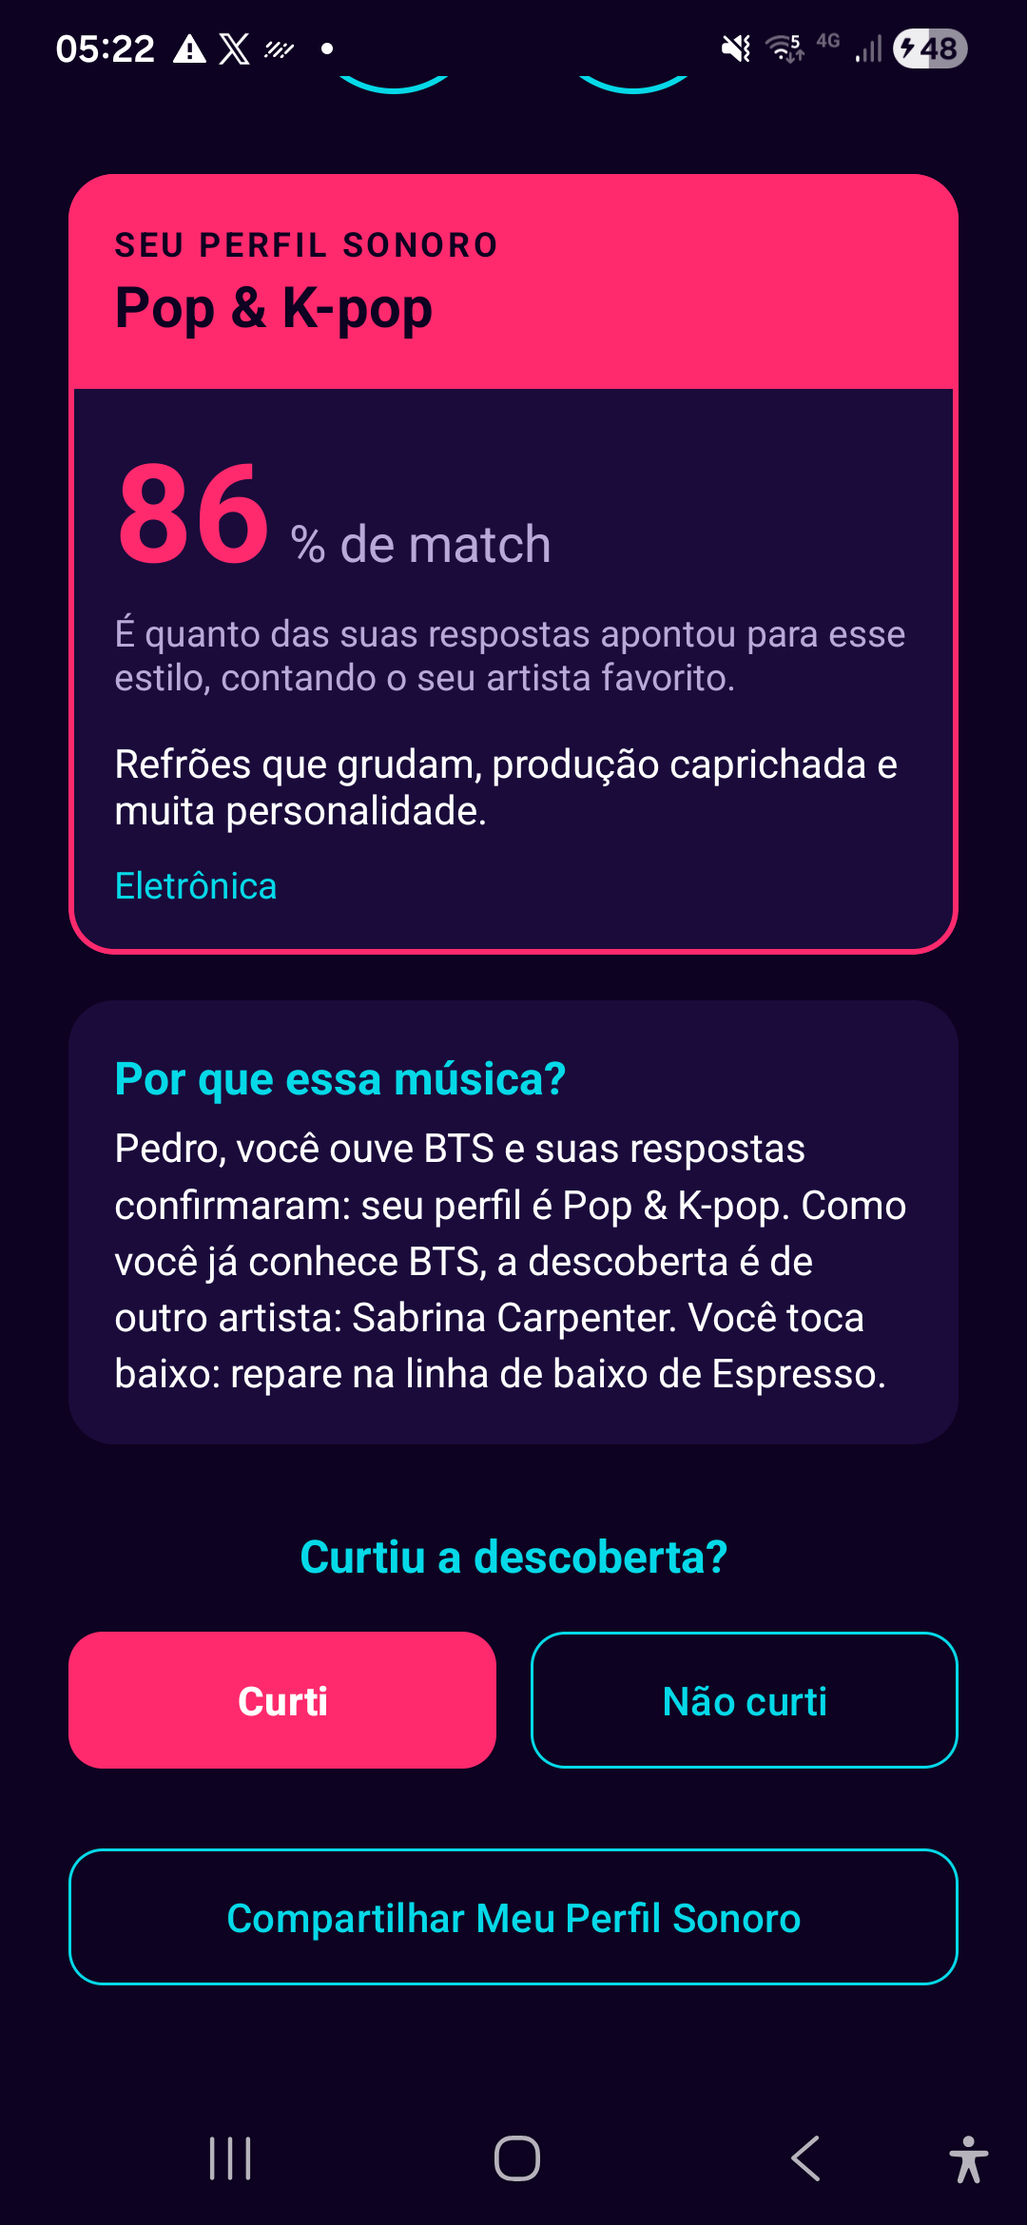
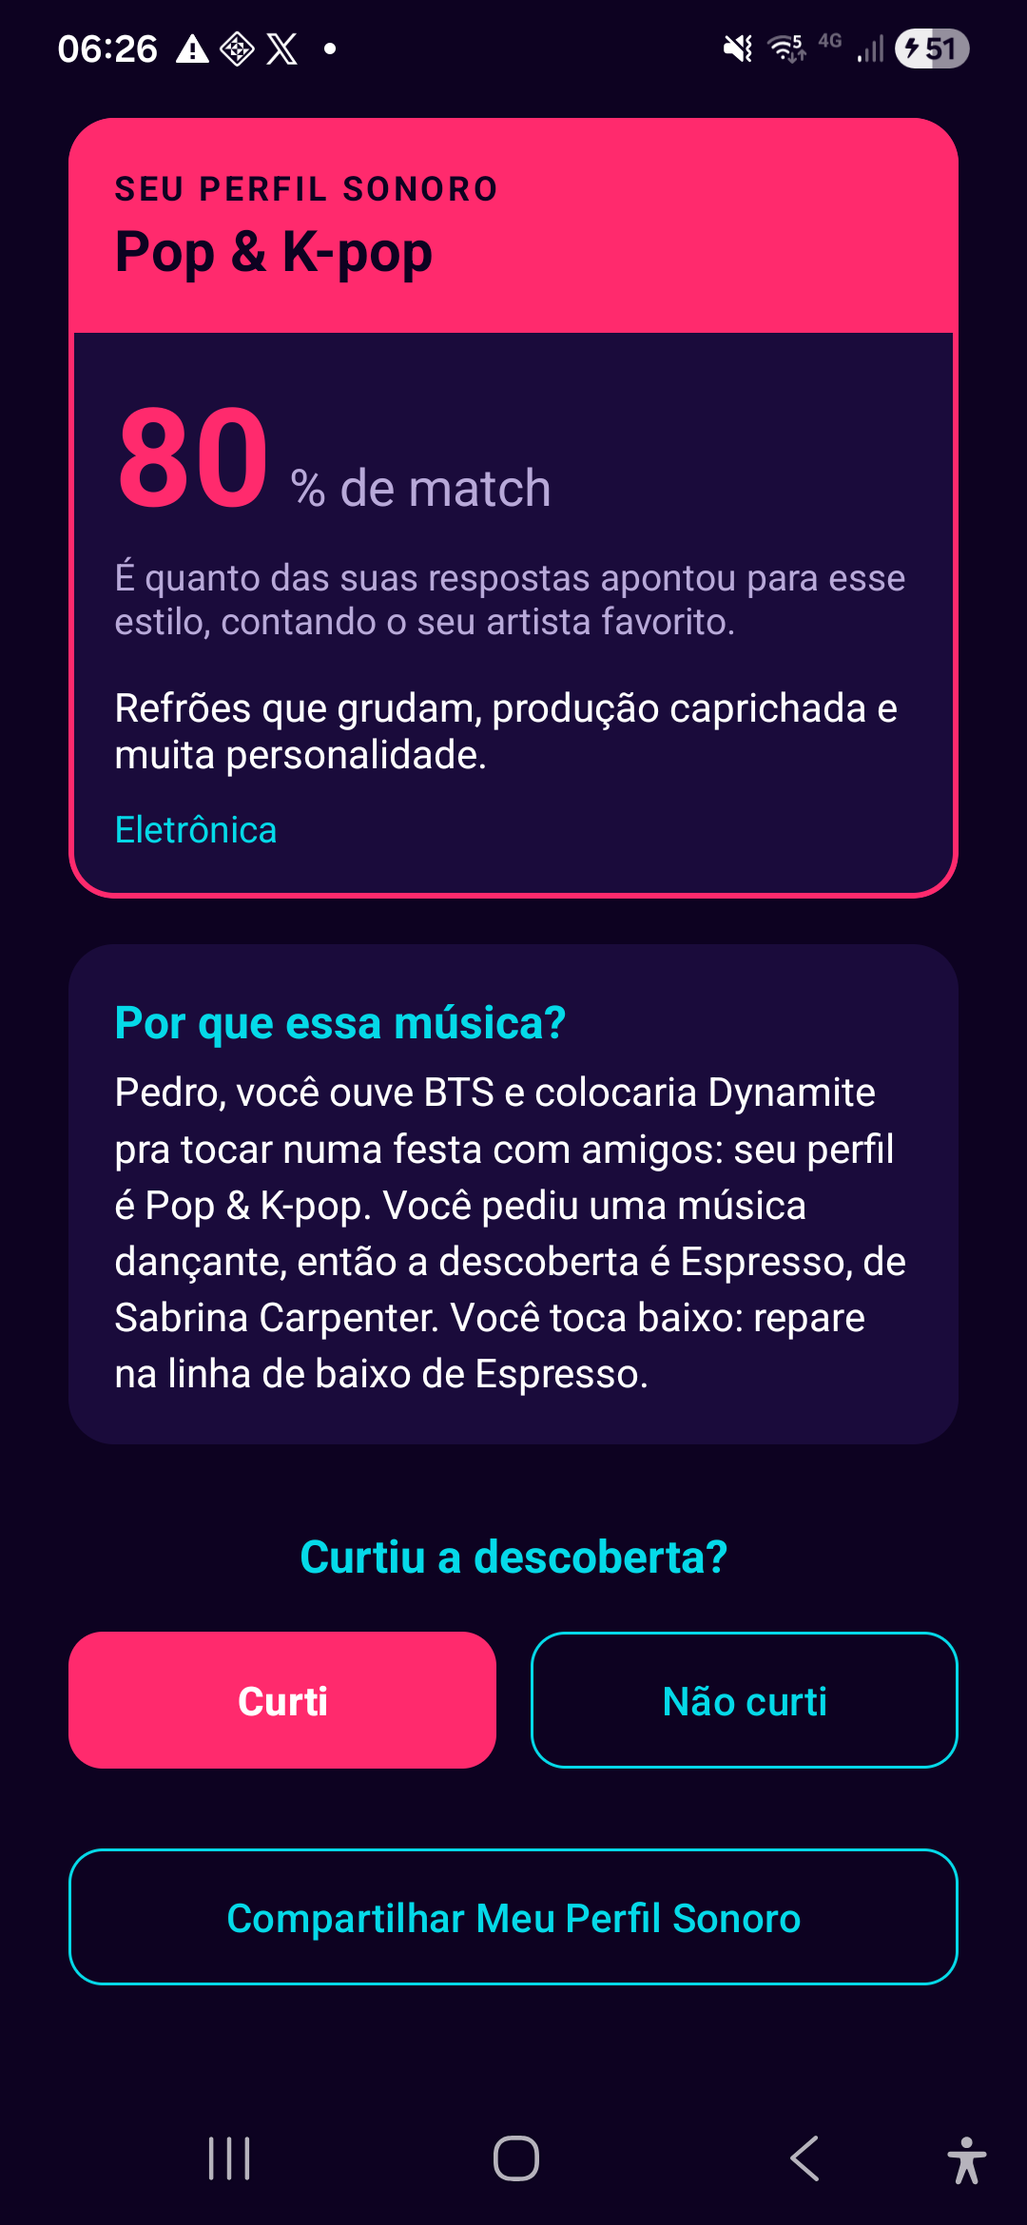
docs: README, guia e prints com o quiz novo
- Prints do quiz (músicas do artista + energias) e do resultado (80%)
- README: proposta, SoundQuizActivity, 10 tipos de View e lógica nova
  (votos, Me surpreenda, energia, catálogo de 60 músicas)
- Guia: roteiro do quiz, exemplo de votos e perguntas prováveis novas
- CLAUDE.md com as decisões e o status atualizados

Changed region(s): [[0.0611, 0.0, 0.9472, 0.6239]]

diff --git a/CLAUDE.md b/CLAUDE.md
@@ -96,7 +96,7 @@ Código copiado da internet ou de colegas leva nota zero, e eu preciso demonstra
   - `requirements.txt`: dependências.
 - **Tabelas:**
   - `users`: `id`, `name`, `favorite_artist`, `listening_mode`, `plays_instrument`, `created_at`.
-  - `recommendations`: `id`, `user_id` (FK → `users.id`), `score` (10–100), `archetype`, `recommended_song`, `song_artist`, `subgenres`, `liked` (bool), `created_at`.
+  - `recommendations`: `id`, `user_id` (FK → `users.id`), `score` (10–100), `archetype`, `recommended_song`, `song_artist`, `subgenres`, `liked` (bool), `surprise` (bool, padrão false, veio do Me surpreenda), `created_at`.
   - `users.listening_mode` guarda a **situação** escolhida no perfil (ex.: "Academia").
   - **Os nomes das colunas ficaram da 1ª versão:** `archetype` guarda o perfil/gênero (ex.: "Pop & K-pop"), `score` guarda o **% de match** (10–100) e `subgenres` guarda os "outros estilos" marcados. O backend não mudou na troca para gêneros. Isso está comentado em `model/ApiModels.kt`.
   - Se o schema mudar, apague o `soundmatch.db` (é gitignored). A API recria o banco ao iniciar. Ele já foi recriado com a coluna `liked`.
@@ -131,8 +131,8 @@ Código copiado da internet ou de colegas leva nota zero, e eu preciso demonstra
    2. "Qual artista você mais ouve?" → botão "Buscar artista" consulta o **iTunes** e mostra um card (capa, nome oficial via `logic/ArtistName.kt`, gênero do iTunes). Sem internet ou não encontrado: aviso e segue só com o texto digitado (`artistGenre = null`).
    3. "Quando você mais ouve música?" (`ChipGroup`: Relaxando em casa, Academia, Na rua, Festa com amigos, Estudando)
    4. "Você toca algum instrumento?" (`ChipGroup`: Não toco, Guitarra, Bateria, Baixo, Teclado, Canto)
-   - **Spinner e Switch saíram** (ainda são 9 tipos de View: TextView, EditText, Button, ImageView, CheckBox/Chip, RadioButton, RecyclerView, ProgressBar, CardView; o edital pede 6).
-3. **SoundQuizActivity:** tela com rolagem, 3 cards com `RadioGroup` de **5 opções (uma por gênero, na ordem do enum `Genre`)** + "Outros estilos que você curte" em `CheckBox` (um por gênero) + `ProgressBar`. Perguntas atuais: música para a situação (`rgSongPick`), o que prende no artista favorito (`rgArtistPick`), disco que ouviria inteiro (`rgAlbumPick`). **O estudante ainda acha as perguntas genéricas (ver "Ainda a decidir").**
+   - **Spinner saiu**; o **Switch voltou** no quiz (Me surpreenda). São 10 tipos de View: TextView, EditText, Button, ImageView, CheckBox/Chip, RadioButton, Switch, RecyclerView, ProgressBar, CardView (o edital pede 6).
+3. **SoundQuizActivity (refeita em 16/11):** 1ª pergunta "Qual dessas de BTS você colocaria pra tocar numa festa com amigos?" com as 4 músicas do artista (`UserProfile.artistSongs`, vindas da busca do perfil com `limit=25` filtrada por `logic/TrackPicker`; sem artista, pergunta reserva com 5 músicas de 5 gêneros). 2ª pergunta: as **6 energias** (`model/Energy`: Porradeira, Dançante, Pra cantar junto, Sofrência, Viajada, De boa; nome em negrito + `hint`). Opções criadas no Kotlin com `item_quiz_option.xml`. Depois "Outros estilos" (CheckBox) + **Switch Me surpreenda** (sem outro estilo marcado, Toast pede para marcar). Caption "Última parte".
 4. **ResultActivity:** estilo "tocando agora": capa grande (260dp, contorno na cor do perfil; iTunes, vinil como reserva), música, ícones Spotify/YouTube (Simple Icons, brancos), card do perfil com **"67% de match"** + "É quanto das suas respostas apontou para esse estilo, contando o seu artista favorito.", destaque do gênero, outros estilos, explicação. **"Curti" / "Não curti"** já salvam (POST com `liked`) com `ProgressBar`. Compartilhar (`ACTION_SEND`); YouTube/Spotify (`ACTION_VIEW`, Spotify tenta `spotify:search:` e cai no web).
 5. **HistoryActivity:** `RecyclerView` + `CardView`, Curtiu (ciano)/Não curtiu (magenta), botão "Mudar para…" (PUT do `liked`), Excluir com `AlertDialog` (DELETE), estado vazio.
 
@@ -144,12 +144,12 @@ Código copiado da internet ou de colegas leva nota zero, e eu preciso demonstra
 
 ### Lógica de recomendação: votação por gênero (`logic/SoundMatchEngine.kt`)
 - **5 perfis** (`model/Genre.kt`, a ordem importa): POP "Pop & K-pop", ROCK "Rock & Alternativo", HIPHOP "Hip-hop & R&B", ELECTRONIC "Eletrônica", BRAZILIAN "Música Brasileira". `Genre.fromITunes(primaryGenreName)` mapeia por palavras-chave (busca Brasileira primeiro, Pop por último; ex.: "K-pop"→POP, "Metal"→ROCK, "Hip-Hop/Rap"→HIPHOP, "Dance"→ELECTRONIC, "Sertanejo"/"MPB"/"Pagode"→BRAZILIAN; "Reggae"→null).
-- **Votos:** gênero do artista favorito (iTunes) = **3 votos** (`ARTIST_VOTES`); cada pergunta do quiz = 1; cada estilo marcado = 1. Ganha o mais votado; **empate → gênero do artista**.
+- **Votos:** gênero do artista favorito (iTunes) = **3 votos** (`ARTIST_VOTES`); a música da 1ª pergunta = 1 voto no gênero dela no iTunes; cada estilo marcado = 1. Ganha o mais votado; **empate → gênero do artista, depois o da 1ª pergunta**. **Me surpreenda:** estilo marcado mais votado fora o de sempre (`surpriseGenre`); `SoundResult.surprise` esconde o % no resultado ("Fora da sua zona de conforto") e o histórico mostra "· surpresa".
 - **% de match** = votos do vencedor / total × 100, arredondado e limitado a 10–100 (substituiu o score "raiz → experimental", que o estudante achou sem sentido e com "cara de IA").
-- **Música** (`logic/SongCatalog.kt`: 5 por gênero, 25 no total, cada uma com `featured: Instrument` e um de cada instrumento por gênero; nenhum artista do catálogo aparece nas opções do quiz): exclui o artista favorito; quem toca recebe a música do seu instrumento; os outros, uma escolha fixa pelo hash do nome.
-- **Explicação:** cita o nome, o artista, o gênero, o artista da descoberta e, para quem toca, `Instrument.practice` + `focus` ("Você toca baixo: repare na linha de baixo de Espresso").
+- **Música** (`logic/SongCatalog.kt`: **12 por gênero, 60 no total, 2 de cada energia**, todos os instrumentos em cada gênero, todas conferidas no iTunes BR; nenhum artista do catálogo aparece na pergunta reserva): filtra pela energia pedida, exclui o artista favorito; quem toca recebe a música do seu instrumento; os outros, uma escolha fixa pelo hash do nome.
+- **Explicação:** cita o nome, o artista, a música escolhida ("colocaria Dynamite pra tocar numa festa com amigos"), o gênero, a energia (`Energy.phrase`), a descoberta e, para quem toca, `Instrument.practice` + `focus`. Na surpresa: "você quis sair da zona de conforto: em vez de X, a descoberta vem de Y".
 - **iTunes** (`network/ITunesApi.search`, `country=BR`, que acerta mais os gêneros brasileiros); `network/ImageLoader` (capa 600x600, download em `Dispatchers.IO`).
-- **Testes:** `SoundMatchEngineTest.kt`, 12 testes (votação, empate, sem internet, match mínimo, exclusão do favorito, instrumento, determinismo, explicação, `fromITunes`, `ArtistName.clean`). Todos passando.
+- **Testes:** `SoundMatchEngineTest.kt` (16: votação, empate, surpresa, energia, exclusão do favorito, instrumento, determinismo, explicação, catálogo, `fromITunes`, `ArtistName.clean`) + `TrackPickerTest.kt` (4). Capas do resultado/histórico usam `TrackPicker.bestMatch` (artista certo, versão de estúdio).
 
 ### Estrutura do código (decidida com a delegação do estudante)
 - **Pacotes** em `com.example.soundmatch`: `ui/` (Activities), `adapter/` (RecyclerView), `network/` (Retrofit + ImageLoader), `model/` (dados), `logic/` (regra de negócio, sem Android).
@@ -164,12 +164,12 @@ Código copiado da internet ou de colegas leva nota zero, e eu preciso demonstra
 - **Ambiente:** o projeto Android é aberto no Android Studio (Windows) a partir de uma **cópia** em `C:\Users\pedro\AndroidStudioProjects\SoundMatch`. Depois de editar no WSL, sincronizar com `rsync -a --delete --exclude build --exclude .gradle --exclude .idea --exclude local.properties android/ /mnt/c/Users/pedro/AndroidStudioProjects/SoundMatch/`. Build: `gradlew.bat --no-daemon` com `JAVA_HOME=C:\Users\pedro\.jdks\temurin-17.0.21` (o Java 25 do AS não roda o Gradle 8.9). O backend roda no WSL (venv com Python 3.14).
 
 ### Ainda a decidir com o estudante (próximos passos, nesta ordem)
-1. **Perguntas do quiz: o estudante ainda acha genéricas.** Ideia escolhida por ele: a **1ª pergunta usa músicas reais do artista favorito** ("Qual dessas do BTS você mais ouve?"; a mesma busca do iTunes com `limit=25` filtrada pelo artista devolve as mais conhecidas, com ano e gênero). Ele quer que **a música escolhida influencie a recomendação, mas NÃO pelo ano**. Também **não gostou** da proposta "O que mais te prende em Dynamite? voz/batida/guitarra/baixo/teclados". Ainda é preciso propor outra forma, e conversar antes de programar.
+1. ✅ **Perguntas do quiz (16/11):** a partir da análise do prompt do Gemini, ficou só a ideia de energia + funil; quiz refeito em 5 etapas (catálogo, motor, iTunes, tela, campo `surprise`).
 2. ✅ **Design (16/11):** A) synthwave contido (Monoton só na Main, títulos sans-serif-black + `HorizonLine` em degradê, cards sem contorno); B) Histórico como lista de músicas (capa do iTunes via `network/CoverRepository`, coração = PUT, lixeira = DELETE); C) Perfil novo (céu/sol/chão no rodapé com os botões por cima, sol sobe a cada passo em `moveSun`, frase `tvLead` com a resposta anterior, card do artista na cor do gênero). Prints e README/guia atualizados.
 3. ✅ README e `GUIA_APRESENTACAO.md` atualizados para gêneros/votação/% de match (16/11), com 6 prints em `docs/screenshots/` tirados no celular. `LEIA-ME.txt` apagado.
 4. ✅ Commit e push da reforma e da documentação (repositório público). API publicada no Render em 16/11 e app apontando para ela.
 5. ✅ Mockup do novo Perfil (https://claude.ai/artifact/B7KUviGeVDxj1Vw9NfRrFj) implementado.
-6. Notado e não corrigido: o quiz mostra "Passo 2 de 2" (o perfil agora tem 4 passos); no Resultado, "outros estilos" pode repetir o próprio perfil vencedor.
+6. ✅ "Passo 2 de 2" virou "Última parte"; "outros estilos" não repete mais o perfil vencedor.
 - Adiado: Top 3 músicas favoritas, swipe estilo Tinder.
 
 ## 6. Status das Etapas
@@ -180,4 +180,5 @@ Código copiado da internet ou de colegas leva nota zero, e eu preciso demonstra
 4. ✅ Retrofit (POST/GET/PUT/DELETE) + HistoryActivity/HistoryAdapter com AlertDialog
 5. ✅ README.md + GUIA_APRESENTACAO.md (atualizados em 16/11)
 7. ✅ Redesign A/B/C (synthwave contido, Histórico em lista, Perfil com pôr do sol) com prints novos e push.
-6. ✅ Reforma de 16/11 (gêneros + votação + % de match + perfil em passos + Curti/Não curti) com commit, build e testes passando. Pendentes: perguntas do quiz.
+8. ✅ Quiz novo (músicas do artista + 6 energias + Me surpreenda + `surprise` na API) com push. Faltam os prints novos do quiz/resultado no README.
+6. ✅ Reforma de 16/11 (gêneros + votação + % de match + perfil em passos + Curti/Não curti) com commit, build e testes passando. Perguntas do quiz refeitas depois (ver item 8).

diff --git a/README.md b/README.md
@@ -4,11 +4,12 @@ Aplicativo Android nativo (Kotlin + XML Views) integrado a uma **API REST em Fas
 
 A ideia é recomendar **uma música nova, do estilo que é a cara da pessoa**. Funciona assim:
 - A pessoa conta o nome, o artista que mais ouve, quando mais ouve música e se toca algum instrumento.
-- O app busca o artista no iTunes para descobrir o gênero dele.
-- A pessoa responde a um quiz curto.
-- Cada resposta vira um voto em um de **5 perfis** (Pop & K-pop, Rock & Alternativo, Hip-hop & R&B, Eletrônica e Música Brasileira).
-- O perfil mais votado ganha, e o app mostra:
-  - o **% de match**, que é quanto das respostas apontou para esse perfil;
+- O app busca o artista no iTunes para descobrir o gênero dele e as músicas mais conhecidas.
+- No quiz, a pessoa escolhe qual música desse artista colocaria pra tocar na situação dela, a **energia** que quer ouvir agora (Porradeira, Dançante, Pra cantar junto, Sofrência, Viajada ou De boa) e outros estilos que curte.
+- O artista e as respostas votam em um de **5 perfis** (Pop & K-pop, Rock & Alternativo, Hip-hop & R&B, Eletrônica e Música Brasileira), e a energia escolhe a música dentro do perfil.
+- Com o **Me surpreenda** ligado, a descoberta vem de um dos estilos marcados, fora do de sempre.
+- O app mostra:
+  - o **% de match**, que é quanto das respostas apontou para esse perfil (na surpresa, a frase "Fora da sua zona de conforto");
   - uma **música recomendada**, sempre de um artista diferente do favorito;
   - a capa do álbum;
   - uma explicação do porquê da escolha.
@@ -50,11 +51,11 @@ MainActivity ──► UserProfileActivity ──► SoundQuizActivity ──►
 |---|---|---|---|
 | 1 | `MainActivity` | Tela inicial: o disco de vinil nasce no horizonte e gira, e o título neon pulsa | ImageView, TextView, Button |
 | 2 | `UserProfileActivity` | Perfil em formato de conversa, uma pergunta por vez, em 4 passos: nome, artista favorito (buscado no iTunes e mostrado num card com capa e gênero), quando mais ouve música e instrumento. Uma frase usa a resposta anterior ("Prazer, Pedro."), e no rodapé o sol sobe a cada passo. Tem "Passo X de 4", barra de progresso e Voltar / Continuar | EditText, Button, CheckBox (Chip), CardView, ImageView, ProgressBar |
-| 3 | `SoundQuizActivity` | 3 perguntas com 5 opções cada, uma por perfil. A 1ª cita a situação escolhida e a 2ª cita o artista favorito. Depois vêm os "outros estilos que você curte". A barra avança a cada resposta | RadioButton, CheckBox, CardView, ProgressBar |
+| 3 | `SoundQuizActivity` | 1ª pergunta com músicas reais do artista favorito, para a situação escolhida ("Qual dessas de BTS você colocaria pra tocar numa festa com amigos?"); 2ª pergunta com as 6 energias; outros estilos que você curte e o Switch "Me surpreenda". A barra avança a cada resposta | RadioButton, CheckBox, Switch, CardView, ProgressBar |
 | 4 | `ResultActivity` | Estilo "tocando agora": capa do álbum, música, perfil com a cor do gênero, % de match e explicação. Curti / Não curti salva na API; abre no Spotify ou no YouTube e compartilha | ImageView, CardView, ProgressBar, Button |
 | 5 | `HistoryActivity` | Lista de músicas salvas, cada uma com a capa (buscada no iTunes) contornada na cor do perfil. O coração muda a avaliação (PUT) e a lixeira exclui, com confirmação em AlertDialog (DELETE) | RecyclerView, CardView, ProgressBar |
 
-**9 tipos de Views usados** (o edital exige 6): TextView, EditText, Button, ImageView, CheckBox (e Chip, que é um CheckBox), RadioButton, RecyclerView, ProgressBar e CardView.
+**10 tipos de Views usados** (o edital exige 6): TextView, EditText, Button, ImageView, CheckBox (e Chip, que é um CheckBox), RadioButton, Switch, RecyclerView, ProgressBar e CardView.
 
 ---
 
@@ -193,24 +194,21 @@ users (1) ────────< (N) recommendations
 
 ## Lógica de recomendação
 
-O código fica em `logic/SoundMatchEngine.kt`, sem nada de Android, e é coberto por 12 testes unitários.
+O código fica em `logic/SoundMatchEngine.kt`, sem nada de Android, e é coberto por testes unitários (`SoundMatchEngineTest` e `TrackPickerTest`, 20 no total). Em uma frase: **o artista e as respostas votam no estilo, o "Me surpreenda" decide se a pessoa fica nele, e a energia escolhe a música.**
 
-1. **Votos.** Cada resposta é um voto em um dos 5 perfis:
+1. **Votos.** Cada um vale votos em um dos 5 perfis:
    - o gênero do artista favorito (vindo do iTunes) vale **3 votos**;
-   - cada pergunta do quiz vale 1 voto (a opção N vota no perfil N);
+   - a música escolhida na 1ª pergunta vale 1 voto, no gênero dela no iTunes (para quem varia de estilo, como Anitta, isso faz diferença);
    - cada estilo marcado em "outros estilos que você curte" vale 1 voto.
-2. **Perfil.** Ganha o mais votado. Em caso de empate, ganha o gênero do artista favorito.
-3. **% de match** = votos do perfil vencedor ÷ total de votos × 100, arredondado e limitado entre 10 e 100.
-   Exemplo dos prints:
-   - BTS (K-pop) dá 3 votos para Pop;
-   - as 3 respostas do quiz dão mais 3 votos para Pop;
-   - marcar "Eletrônica" dá 1 voto para Eletrônica;
-   - Pop fica com 6 de 7 votos, ou seja, **86%**.
-4. **Música.** O catálogo (`logic/SongCatalog.kt`) tem 5 músicas por perfil, 25 no total. Em cada perfil, cada música destaca um instrumento (voz, bateria, baixo, teclado e guitarra). O app:
+2. **Perfil.** Ganha o mais votado. No empate, ganha o gênero do artista; depois, o da música da 1ª pergunta.
+3. **% de match** = votos do perfil ÷ total de votos × 100, arredondado e limitado entre 10 e 100. Exemplo: BTS (3 votos Pop) + Dynamite (1 voto Pop) + marcar Eletrônica (1 voto) = Pop com 4 de 5 votos, **80%**. Quem marca muitos estilos tem um gosto mais espalhado, e o % cai.
+4. **Me surpreenda.** Entre os estilos marcados, pega o mais votado que não seja o de sempre. No resultado, o % dá lugar à frase "Fora da sua zona de conforto". Se nenhum outro estilo foi marcado, o quiz pede para marcar.
+5. **Música.** O catálogo (`logic/SongCatalog.kt`) tem 12 músicas por perfil, 60 no total: **2 de cada energia**, e os 5 instrumentos aparecem em todo perfil. O app:
+   - fica com as 2 músicas da energia pedida;
    - **tira o artista favorito**, para ser sempre uma descoberta;
    - para quem toca, escolhe a música em que o seu instrumento se destaca;
    - para os outros, faz uma escolha fixa pelo nome da pessoa (a mesma pessoa sempre recebe a mesma música).
-5. **Explicação.** Cita o nome, o artista favorito, o perfil e o artista da descoberta. Para quem toca, diz em que prestar atenção (ex.: "Você toca baixo: repare na linha de baixo de Espresso").
+6. **Explicação.** Cita o nome, o artista, a música escolhida, a energia e a descoberta. Exemplo: "Pedro, você ouve BTS e colocaria Dynamite pra tocar numa festa com amigos: seu perfil é Pop & K-pop. Você pediu uma música dançante, então a descoberta é Espresso, de Sabrina Carpenter. Você toca baixo: repare na linha de baixo de Espresso."
 
 O gênero do iTunes vira um dos 5 perfis por palavras-chave (`Genre.fromITunes`). Alguns exemplos:
 - "K-pop" → Pop;
@@ -219,7 +217,7 @@ O gênero do iTunes vira um dos 5 perfis por palavras-chave (`Genre.fromITunes`)
 - "Dance" → Eletrônica;
 - "Sertanejo" → Brasileira.
 
-Se o artista não for encontrado, ou não houver internet, o perfil sai só das respostas do quiz.
+Se o artista não for encontrado, ou não houver internet, o artista não vota e a 1ª pergunta vira uma pergunta reserva, com 5 músicas de 5 estilos.
 
 ---
 
@@ -230,7 +228,7 @@ Se o artista não for encontrado, ou não houver internet, o perfil sai só das 
 | 5 Activities | `ui/` (Main, UserProfile, SoundQuiz, Result, History) |
 | Intents explícitas | Main → Perfil / Histórico, Perfil → Quiz, Quiz → Resultado (com `putExtra`) |
 | Intent implícita | `ResultActivity`: `ACTION_VIEW` (YouTube e Spotify) e `ACTION_SEND` (compartilhar) |
-| 6+ Views | 9 tipos (lista acima) |
+| 6+ Views | 10 tipos (lista acima) |
 | API REST + Swagger | `backend/` + `/docs` |
 | CRUD + JSON | POST, GET, PUT e DELETE via Retrofit (`network/SoundMatchApi.kt`) |
 | Banco relacional | SQLite com `users` 1:N `recommendations` (FK) |
